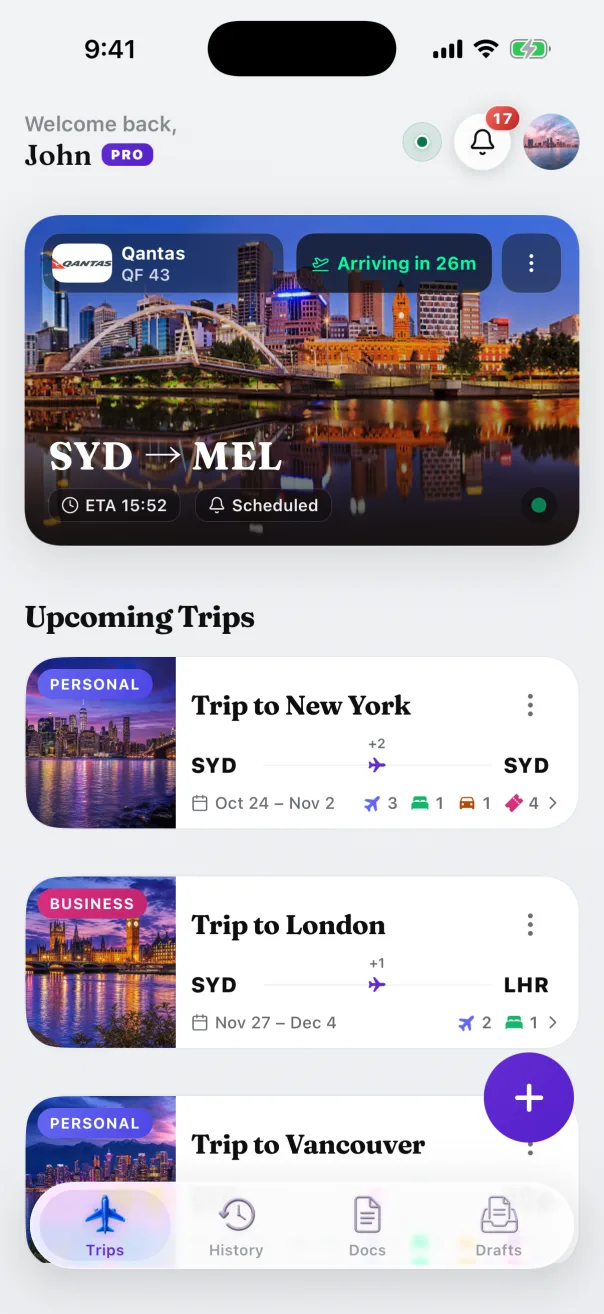
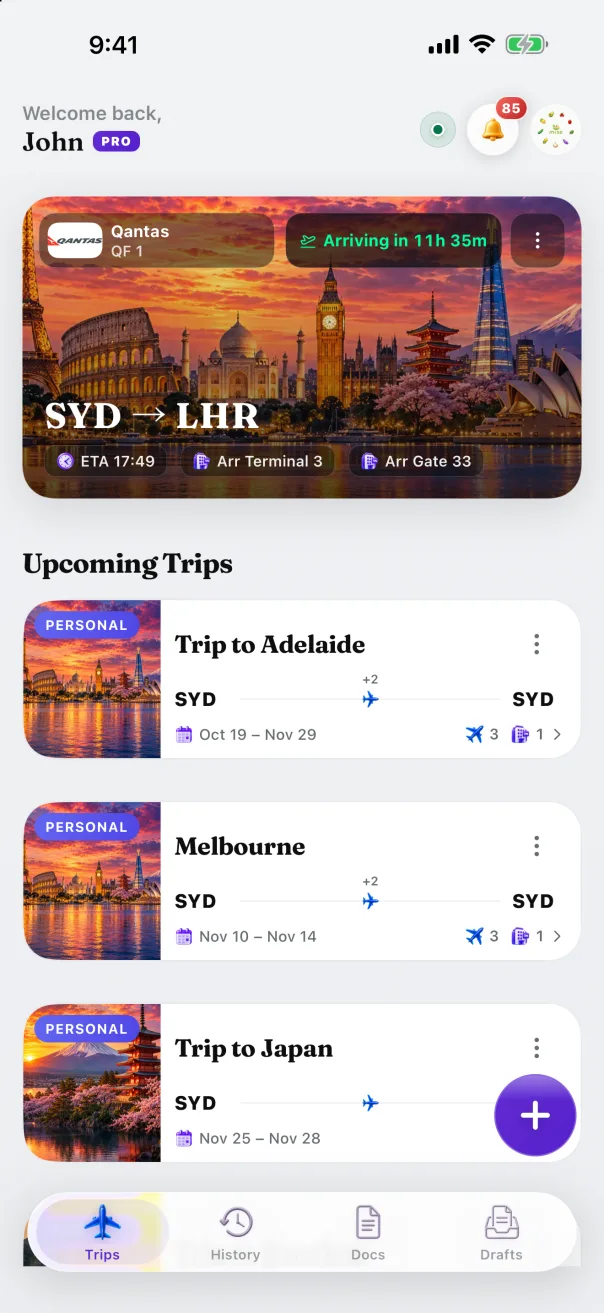
Hero: the iPhone starts on the QF 1 Sydney to London in-flight card
Real Trips screen capture with the app's dev En Route demo flight on the
dashboard card, so the tap and the landscape view show the same flight.

diff --git a/components/home/hero-journey.tsx b/components/home/hero-journey.tsx
@@ -6,8 +6,8 @@ import { HeroScene } from "./hero-scene"
 
 /*
  * The hero visual alternates between the inbox collage and En Route, the live flight view. On most screens an iPhone
- * (the owner-approved procedural frame, no Apple bezel art) is tapped on the flight card and turns to landscape, as the
- * app does. On an iPhone Duo the Duo's own fold-and-tent video plays instead. Safari on the Duo reports itself as an
+ * (the owner-approved procedural frame, no Apple bezel art) is tapped on the in-flight card (the app's dev Sydney to
+ * London demo, QF 1) and turns to landscape, as the app does. On an iPhone Duo the Duo's own fold-and-tent video plays instead. Safari on the Duo reports itself as an
  * iPhone, so the Duo is told apart by its display shape: its cover is 466 x 678 pt, while every other iPhone is about
  * 1 : 2.17. Under reduced motion only the collage shows.
  */
@@ -19,7 +19,7 @@ const DEVICE_H = 590
 const DEVICE_W = Math.round((DEVICE_H * 1322) / 2720)
 // The frame's screen opening, in frame pixels (1322 x 2720): 58, 49, 1206 x 2622, corner 166.
 const SCREEN = { left: 58 / 1322, top: 49 / 2720, width: 1206 / 1322, height: 2622 / 2720, radius: 166 / 1322 }
-// The Dynamic Island, in screen pixels (1206 x 2622).
+// The Dynamic Island, in screen pixels (1206 x 2622); simulator captures leave it out.
 const ISLAND = { left: 415 / 1206, top: 42 / 2622, width: 376 / 1206, height: 109 / 2622 }
 
 function isIphoneDuo() {
